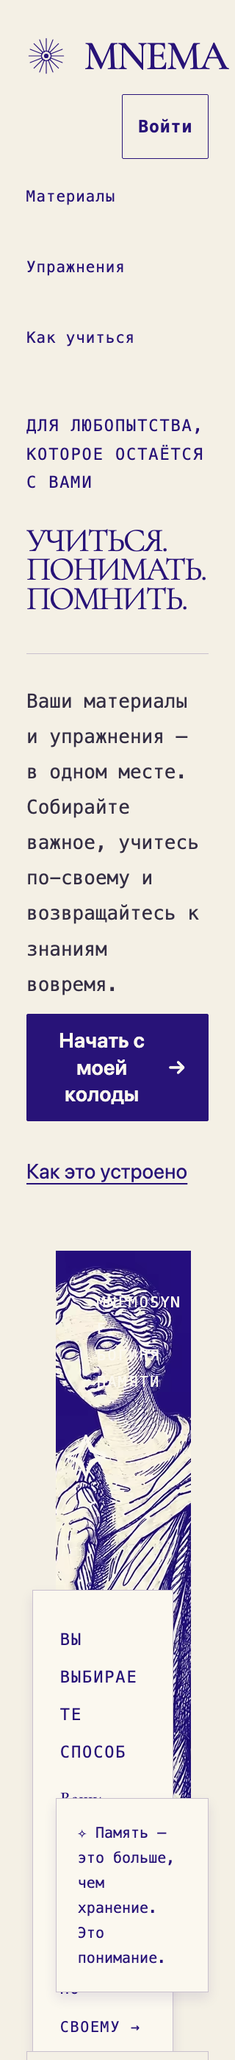
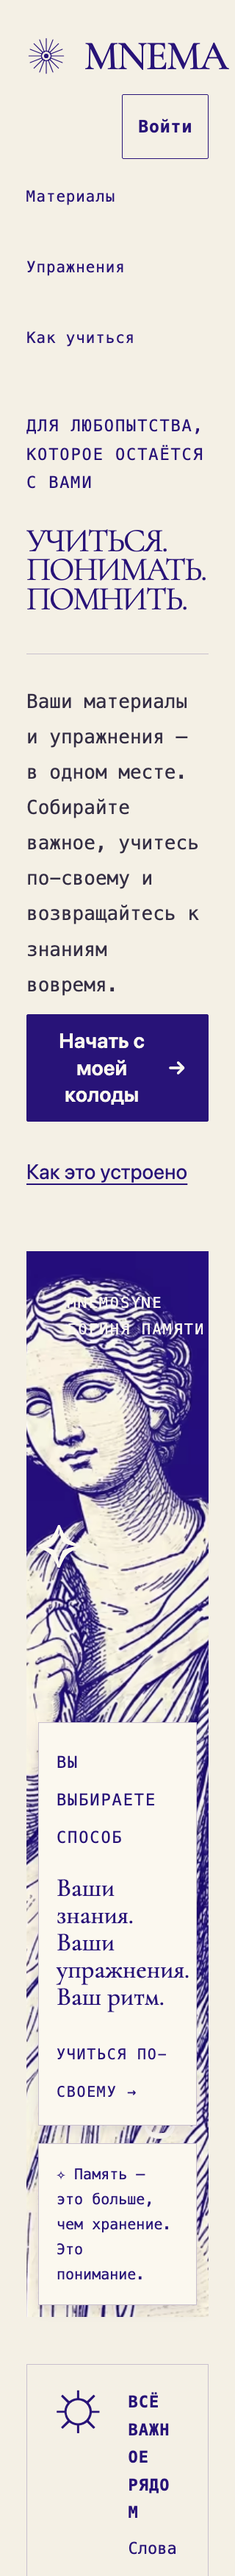
Keep landing notes readable at narrow text zoom

diff --git a/frontend/src/app/home-page.component.css b/frontend/src/app/home-page.component.css
@@ -305,7 +305,24 @@
 
 @media (max-width: 22.5rem) {
     .hero h1 { font-size: min(3rem, 14vw); }
-    .hero-note { inline-size: min(9.6rem, 60vw); }
-    .hero-note p { font-size: min(1.4rem, 8vw); }
-    .small-note { max-inline-size: 10rem; }
+    .art {
+        display: flex;
+        flex-direction: column;
+        justify-content: flex-end;
+        gap: .75rem;
+        min-block-size: 0;
+        margin: 0;
+        padding: max(20rem, 110vw) .5rem .5rem;
+    }
+    .hero-note,
+    .small-note {
+        position: relative;
+        inset: auto;
+        inline-size: 100%;
+        max-inline-size: none;
+        margin: 0;
+        padding: .75rem;
+        overflow-wrap: normal;
+    }
+    .hero-note p { font-size: clamp(1.1rem, 7vw, 1.4rem); }
 }

diff --git a/docs/engineering/evidence/frontend-brand-2026-09-28/README.md b/docs/engineering/evidence/frontend-brand-2026-09-28/README.md
@@ -13,7 +13,7 @@ prototype. The public landing was captured in headless Chrome 154 from a local s
 build. The account, deck, editor, Browse and Study screens were captured by the
 disposable real HTTPS Identity + Learning browser harness with synthetic data.
 The PR records the exact head SHA used for review. The 320 px captures include a
-200% root text-size check; the landing image shows the first 2800 vertical pixels
+200% root text-size check; the landing image shows the first 3500 vertical pixels
 of that long reflowed page. All measured page `scrollWidth` values stayed within the
 CSS viewport. Emulation and screenshots do not replace a physical-device or
 assistive-technology check.
